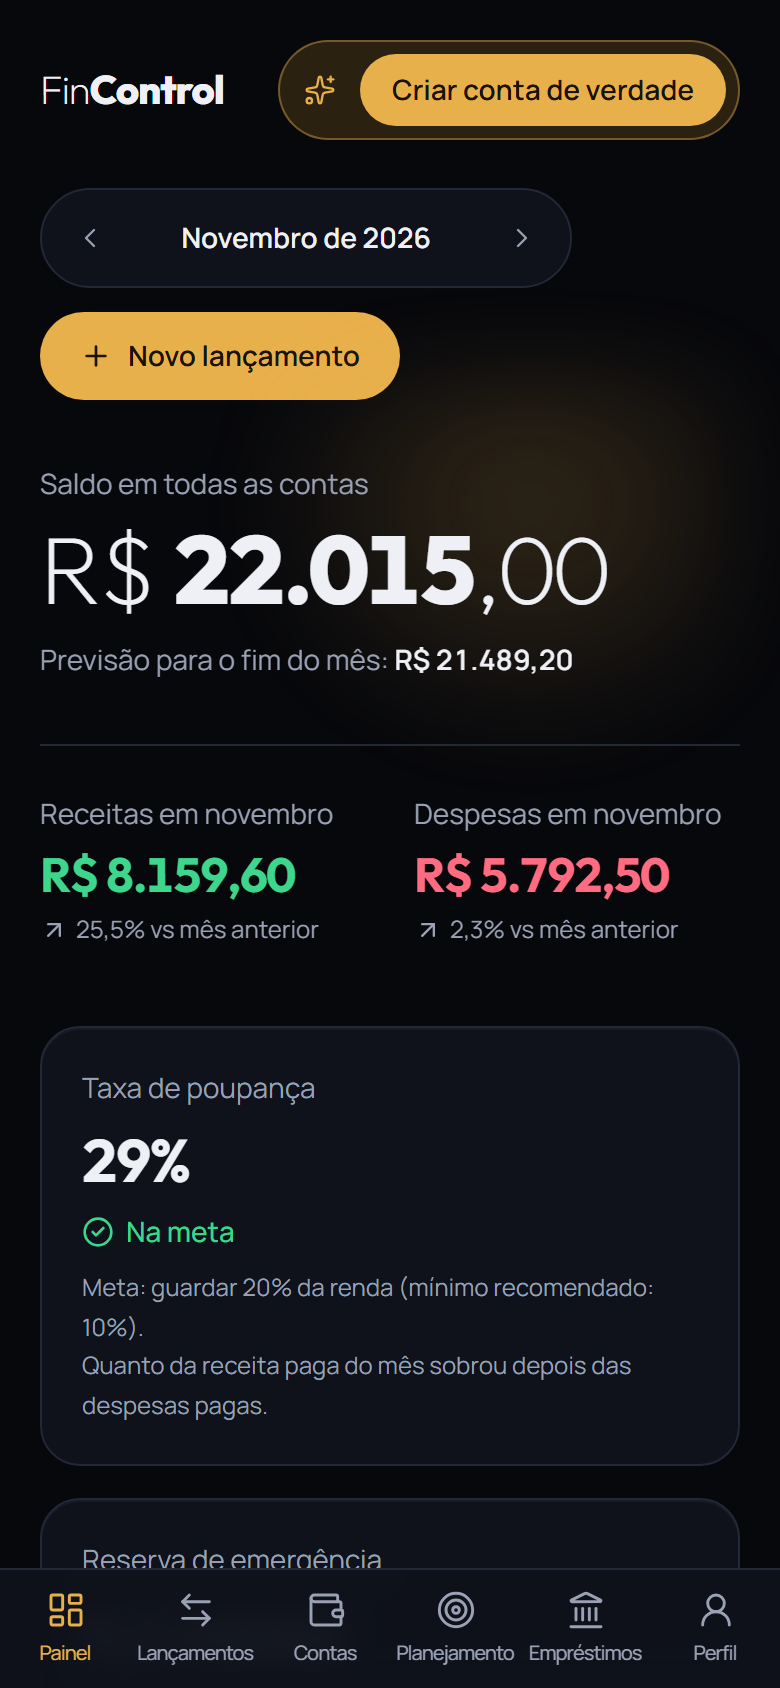
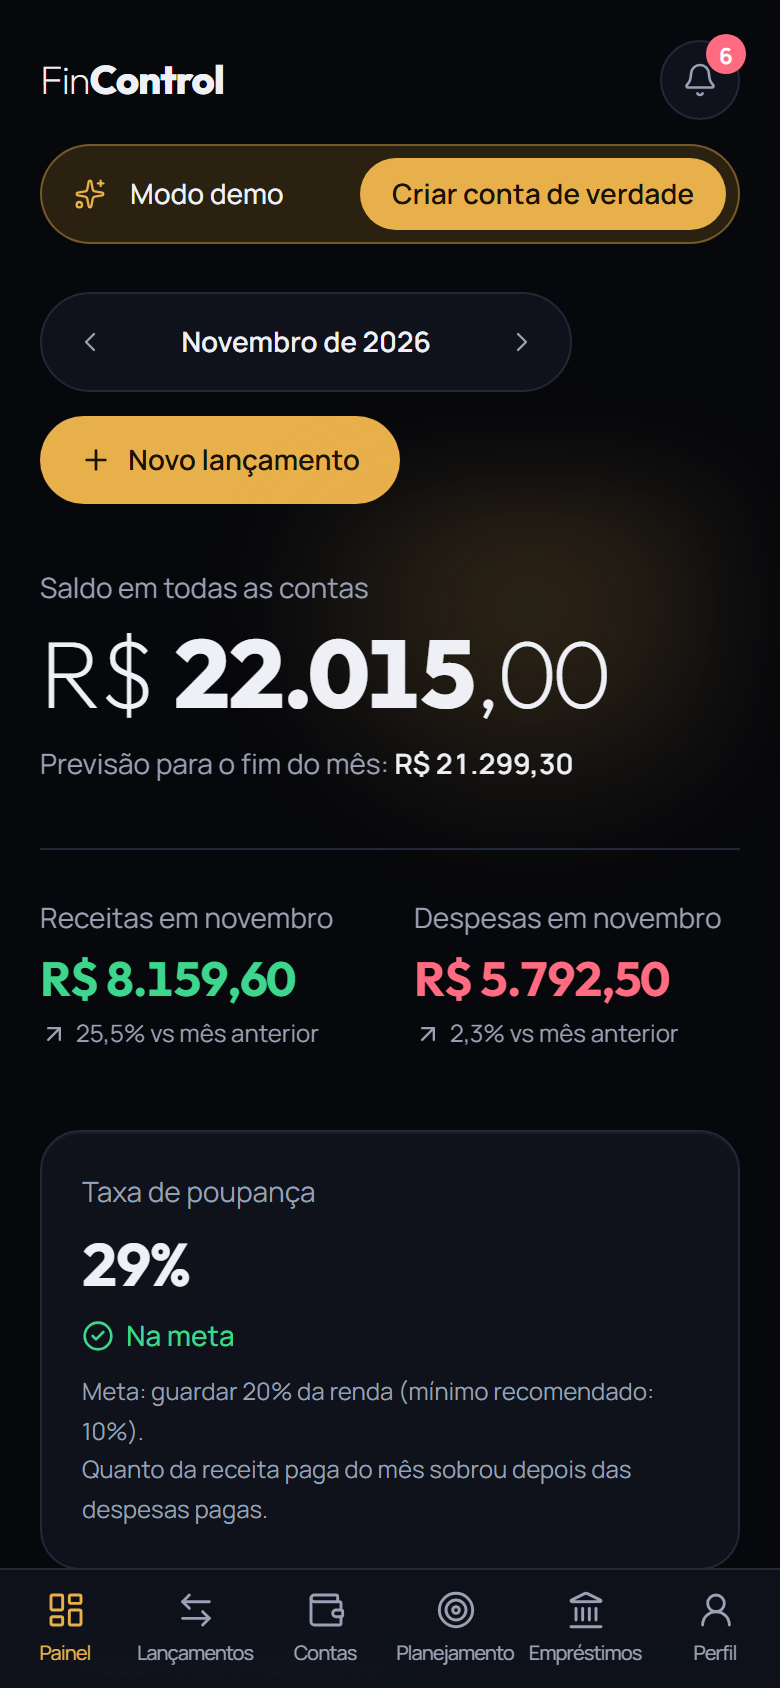
test(e2e): notificações e cabeçalho a 360 px; docs do sub-projeto 5

diff --git a/e2e/tests/mobile-e-publico.spec.ts b/e2e/tests/mobile-e-publico.spec.ts
@@ -13,7 +13,7 @@ test.describe('tela de 360 px', () => {
 
     const paths = [
       '/', '/lancamentos', '/contas', faturas!, '/emprestimos', emprestimo!, '/planejamento', '/planejamento?aba=metas',
-      '/relatorios', '/categorias', '/perfil', '/privacidade', '/termos',
+      '/relatorios', '/notificacoes', '/categorias', '/perfil', '/privacidade', '/termos',
     ];
     for (const path of paths) {
       await page.goto(path);
@@ -32,6 +32,27 @@ test.describe('tela de 360 px', () => {
         }).length,
       );
       expect(clipped, `conteúdo cortado na borda em ${path}`).toBe(0);
+      // Cabeçalho (logo, selo da demo e sino): nada transborda da própria caixa, passa da borda ou fica por baixo do sino.
+      const header = await page.evaluate(() => {
+        const width = document.documentElement.clientWidth;
+        const all = [...document.querySelectorAll('header *')] as HTMLElement[];
+        // Páginas públicas (privacidade, termos) não têm sino.
+        const bellEl = document.querySelector('header a[href="/notificacoes"]');
+        // O selo do sino fica por fora do círculo de propósito: o sino e quem só o envolve ficam fora desta conta.
+        const overflowing = all
+          .filter((el) => !bellEl || (!el.contains(bellEl) && !bellEl.contains(el)))
+          .filter((el) => el.scrollWidth > el.clientWidth + 1 && getComputedStyle(el).overflowX === 'visible')
+          .map((el) => `${el.tagName}.${el.className}`.slice(0, 80));
+        const outside = all.some((el) => el.getBoundingClientRect().right > width + 0.5);
+        const bell = bellEl?.getBoundingClientRect();
+        const underBell = all.filter((el) => {
+          if (!bellEl || !bell || bellEl.contains(el) || el.contains(bellEl)) return false;
+          const r = el.getBoundingClientRect();
+          return r.width > 0 && r.left < bell.right - 0.5 && bell.left < r.right - 0.5 && r.top < bell.bottom - 0.5 && bell.top < r.bottom - 0.5;
+        }).length;
+        return { overflowing, outside, underBell };
+      });
+      expect(header, `cabeçalho em ${path}`).toEqual({ overflowing: [], outside: false, underBell: 0 });
     }
   });
 });

diff --git a/e2e/tests/notificacoes.spec.ts b/e2e/tests/notificacoes.spec.ts
@@ -1,0 +1,34 @@
+import { expect, test } from '@playwright/test';
+import { enterDemo } from './helpers';
+
+test('demo: o sino mostra os não lidos, a ação marca como lido e "marcar todas" zera', async ({ page }) => {
+  await enterDemo(page);
+  const bell = page.getByRole('link', { name: /^Notificações, \d+ não lidas?$/ });
+  await expect(bell).toBeVisible();
+  const before = Number((await bell.getAttribute('aria-label'))!.match(/\d+/)![0]);
+  expect(before).toBeGreaterThanOrEqual(5);
+
+  await bell.click();
+  await expect(page).toHaveURL(/\/notificacoes$/);
+  const list = page.getByRole('list', { name: 'Notificações' });
+  // A conta vencida da demo vem no topo (N5).
+  await expect(list.getByRole('listitem').first()).toContainText('Conta vencida');
+  await expect(list).toContainText('Conta de luz');
+  await expect(list).toContainText('vence em 2 dias');
+  await expect(list).toContainText('Meta concluída: Notebook novo');
+
+  // Critério 4: a ação marca como lida e leva para a tela certa.
+  await list.getByRole('listitem').filter({ hasText: 'Meta concluída' }).getByRole('link', { name: 'Ver metas' }).click();
+  await expect(page).toHaveURL(/\/planejamento\?aba=metas$/);
+  await expect(page.getByRole('link', { name: `Notificações, ${before - 1} ${before - 1 === 1 ? 'não lida' : 'não lidas'}` })).toBeVisible();
+
+  await page.goto('/notificacoes');
+  await page.getByRole('button', { name: 'Marcar todas como lidas' }).click();
+  await expect(page.getByRole('link', { name: 'Notificações', exact: true })).toBeVisible();
+
+  // Critério 5: desligar "Orçamento" no Perfil tira esses avisos.
+  await page.goto('/perfil');
+  await page.getByRole('region', { name: 'Notificações' }).getByRole('checkbox', { name: /Orçamento/ }).uncheck();
+  await page.goto('/notificacoes');
+  await expect(page.getByRole('list', { name: 'Notificações' })).not.toContainText('limite');
+});

diff --git a/apps/web/src/app/app-shell.tsx b/apps/web/src/app/app-shell.tsx
@@ -19,9 +19,9 @@ function DemoBadge() {
   const { signOut } = useAuth();
   const navigate = useNavigate();
   return (
-    <div className="flex items-center gap-3 rounded-full border border-primary/40 bg-primary-soft py-1.5 pl-3 pr-1.5 sm:pl-4 text-sm">
+    <div className="flex items-center gap-3 rounded-full border border-primary/40 bg-primary-soft py-1.5 pl-4 pr-1.5 text-sm">
       <Sparkles aria-hidden className="h-4 w-4 text-primary" strokeWidth={1.75} />
-      <span className="hidden font-medium sm:inline">Modo demo</span>
+      <span className="mr-auto font-medium">Modo demo</span>
       <Button
         size="sm"
         className="h-8"
@@ -67,12 +67,17 @@ export function AppShell() {
       </aside>
 
       <div className="flex min-w-0 flex-col overflow-x-clip">
-        <header className="flex items-center justify-between gap-3 px-5 pt-5 md:px-10 md:pt-7">
+        {/* No celular, o selo da demo desce para uma segunda linha: logo, selo e sino não cabem lado a lado a 360 px. */}
+        <header className="flex flex-wrap items-center gap-3 px-5 pt-5 md:px-10 md:pt-7">
           <span className="md:hidden">
             <Logo />
           </span>
-          <div className="ml-auto flex items-center gap-3">
-            {isDemo && <DemoBadge />}
+          {isDemo && (
+            <div className="order-last w-full sm:order-none sm:ml-auto sm:w-auto">
+              <DemoBadge />
+            </div>
+          )}
+          <div className={cn('ml-auto', isDemo && 'sm:ml-0')}>
             <NotificationBell />
           </div>
         </header>

diff --git a/apps/web/src/features/profile/notification-settings.tsx b/apps/web/src/features/profile/notification-settings.tsx
@@ -1,4 +1,5 @@
 import type { BillDays, NotificationPrefs } from '@fincontrol/shared';
+import { useState } from 'react';
 import { toast } from 'sonner';
 import { Panel } from '../../components/ui/panel';
 import { Segmented } from '../../components/ui/segmented';
@@ -18,10 +19,23 @@ const DAYS: { value: `${BillDays}`; label: string }[] = [
 ];
 
 /** Preferências de notificação (sub-projeto 5, N7): o que avisar e com quanta antecedência. */
-export function NotificationSettings({ prefs }: { prefs: NotificationPrefs }) {
+export function NotificationSettings({ prefs: saved }: { prefs: NotificationPrefs }) {
   const update = useUpdateProfile();
-  const save = (next: NotificationPrefs) =>
-    update.mutate({ notificationPrefs: next }, { onError: (e) => toast.error(e.message) });
+  // Muda na hora (sem esperar o servidor) e volta ao que estava gravado se o salvamento falhar.
+  const [prefs, setPrefs] = useState(saved);
+  const save = (next: NotificationPrefs) => {
+    const previous = prefs;
+    setPrefs(next);
+    update.mutate(
+      { notificationPrefs: next },
+      {
+        onError: (e) => {
+          setPrefs(previous);
+          toast.error(e.message);
+        },
+      },
+    );
+  };
 
   return (
     <Panel role="region" aria-label="Notificações" className="grid gap-5 p-6">

diff --git a/apps/web/src/features/profile/profile-page.test.tsx b/apps/web/src/features/profile/profile-page.test.tsx
@@ -1,6 +1,7 @@
 import { screen, waitFor, within } from '@testing-library/react';
 import userEvent from '@testing-library/user-event';
 import { describe, expect, it } from 'vitest';
+import { ApiError } from '../../lib/api-client';
 import { fakeApi, fakeGateway, signedIn } from '../../test/fakes';
 import { renderApp } from '../../test/render';
 import ProfilePage from './profile-page';
@@ -50,5 +51,13 @@ describe('ProfilePage', () => {
     expect(api.patch).toHaveBeenLastCalledWith('/me', { notificationPrefs: { ...prefs, budget: false } });
     await userEvent.click(within(panel).getByRole('radio', { name: '7 dias' }));
     expect(api.patch).toHaveBeenLastCalledWith('/me', { notificationPrefs: { ...prefs, budget: false, billDays: 7 } });
+  });
+
+  it('a caixa muda na hora e volta se o salvamento falhar', async () => {
+    const api = fakeApi({ 'GET /me': profile, 'PATCH /me': () => new ApiError(500, 'Erro', 'Falhou.') });
+    renderApp(<ProfilePage />, { api });
+    const box = within(await screen.findByRole('region', { name: 'Notificações' })).getByRole('checkbox', { name: /Metas/ });
+    await userEvent.click(box);
+    await waitFor(() => expect(box).toBeChecked());
   });
 });

diff --git a/e2e/tests/screenshots.spec.ts b/e2e/tests/screenshots.spec.ts
@@ -43,6 +43,7 @@ test.describe('desktop', () => {
     await shoot(page, emprestimo!, 'emprestimo.png');
     await shoot(page, '/planejamento', 'planejamento.png');
     await shoot(page, '/relatorios', 'relatorios.png');
+    await shoot(page, '/notificacoes', 'notificacoes.png');
   });
 });
 

diff --git a/README.md b/README.md
@@ -23,6 +23,8 @@ Gestão financeira pessoal: contas, cartões de crédito, empréstimos e financi
 
 ![Relatórios: resumo do período comparado com o anterior, gastos e receitas por categoria, e downloads em PDF e CSV](docs/screenshots/relatorios.png)
 
+![Notificações: contas vencidas e a vencer, orçamento estourado ou perto do limite e metas concluídas, do mais urgente ao menos](docs/screenshots/notificacoes.png)
+
 ## O que dá para fazer
 
 - **Várias contas**: corrente, poupança, carteira e investimento, cada uma com o próprio saldo, além de transferências entre elas.
@@ -34,6 +36,7 @@ Gestão financeira pessoal: contas, cartões de crédito, empréstimos e financi
 - **Metas**: objetivos com valor e prazo, depósitos e retiradas, percentual alcançado, situação (no ritmo, atrasada, concluída) e quanto guardar por mês até o prazo. Há um atalho para a meta de reserva de emergência, com 6 meses do gasto médio.
 - **Relatórios**: por mês, ano ou últimos 12 meses, com resumo e taxa de poupança, gastos e receitas por categoria comparados com o período anterior, evolução mensal, evolução das dívidas (cartões com parcelas futuras e saldo devedor dos empréstimos), maiores despesas e o saldo de cada conta no fim do período.
 - **Exportação**: o relatório em PDF (A4, gerado na API) e os lançamentos em CSV no formato do Excel brasileiro (`;`, vírgula decimal, acentos certos e proteção contra fórmulas).
+- **Notificações**: um sino em todas as telas com os avisos não lidos: contas vencidas e a vencer, faturas fechadas ou vencidas, categorias perto do limite ou estouradas e metas concluídas. Os mais urgentes vêm primeiro, cada aviso leva à tela que resolve o assunto e some sozinho quando ele se resolve. No Perfil, a pessoa escolhe o que receber e com quantos dias de antecedência.
 - **Lançamentos**: receitas e despesas, fixas ou variáveis, pagas ou pendentes, com vencimento e categoria.
 - **Recorrências**: o lançamento se repete (toda semana, todo mês ou todo ano) e cada mês ganha a sua ocorrência, que pode ser paga ou editada. Dá para editar “só esta” ou “esta e as próximas”, sem mexer no que já foi pago.
 - **Histórico com filtros combinados**: período, conta, categoria, tipo, situação e busca, com paginação.
@@ -67,11 +70,12 @@ flowchart LR
 - **Recorrências materializadas sob demanda** e de forma idempotente. Não existe job pré-gerando ocorrências, e uma ocorrência persistida pode ser paga e editada.
 - **Monorepo com npm workspaces.** Os schemas Zod de `packages/shared` validam os dados nos dois lados.
 
-As decisões, com as alternativas descartadas e os motivos, estão nas specs do [sub-projeto 1](docs/superpowers/specs/2026-11-11-fincontrol-fundacao-fluxo-caixa-design.md) , do [sub-projeto 2](docs/superpowers/specs/2026-11-12-fincontrol-sp2-credito-design.md), do [sub-projeto 3](docs/superpowers/specs/2026-11-16-fincontrol-sp3-planejamento-metas-design.md) e do [sub-projeto 4](docs/superpowers/specs/2026-11-17-fincontrol-sp4-relatorios-exportacao-design.md).
+As decisões, com as alternativas descartadas e os motivos, estão nas specs do [sub-projeto 1](docs/superpowers/specs/2026-11-11-fincontrol-fundacao-fluxo-caixa-design.md) , do [sub-projeto 2](docs/superpowers/specs/2026-11-12-fincontrol-sp2-credito-design.md), do [sub-projeto 3](docs/superpowers/specs/2026-11-16-fincontrol-sp3-planejamento-metas-design.md), do [sub-projeto 4](docs/superpowers/specs/2026-11-17-fincontrol-sp4-relatorios-exportacao-design.md) e do [sub-projeto 5](docs/superpowers/specs/2026-11-17-fincontrol-sp5-notificacoes-design.md).
 
 - **O cartão é uma conta** do tipo `credit_card`. A compra é uma despesa nessa conta, com o mês da fatura gravado, e o pagamento é uma transferência. Assim, cartão, saldo e painel usam o mesmo livro-caixa.
 - **As contas do empréstimo ficam em `packages/shared`** (tabela Price): a API calcula o detalhe, e o formulário mostra a taxa real antes de salvar com as mesmas funções.
 - **O PDF é gerado na API com `pdf-lib`**, JavaScript puro com as fontes padrão embutidas, sem ler arquivos do disco na função da Vercel. O download usa `fetch` com o token, para ele nunca ir parar na URL.
+- **Notificações calculadas na hora:** cada aviso sai dos dados atuais, e o banco guarda só a memória dele (chave estável, quando apareceu e quando foi lido). Assim, um aviso de conta já paga nunca fica para trás.
 - **Taxas do Banco Central** vêm da API Olinda (`taxaJuros` v2). Um cron semanal guarda o período mais recente de cada modalidade. Se a API falhar, os dados anteriores ficam. Os testes usam respostas gravadas, sem rede.
 
 | Pasta | O que tem |
@@ -86,10 +90,10 @@ As decisões, com as alternativas descartadas e os motivos, estão nas specs do 
 
 | Camada | Quantidade | Como roda |
 |---|---|---|
-| `packages/shared` | 120 | Unitários (Vitest) |
-| `apps/api` | 236 | Integração contra **Postgres real**: rotas HTTP, regras de saldo, recorrência, cartão e fatura, empréstimos, relatórios, CSV e PDF, sincronização com o Banco Central e isolamento entre usuários |
-| `apps/web` | 149 | Componentes e fluxos (Testing Library), com o provedor de identidade simulado |
-| `e2e` | 12 | Chromium contra a pilha inteira |
+| `packages/shared` | 128 | Unitários (Vitest) |
+| `apps/api` | 245 | Integração contra **Postgres real**: rotas HTTP, regras de saldo, recorrência, cartão e fatura, empréstimos, relatórios, CSV e PDF, sincronização com o Banco Central e isolamento entre usuários |
+| `apps/web` | 158 | Componentes e fluxos (Testing Library), com o provedor de identidade simulado |
+| `e2e` | 13 | Chromium contra a pilha inteira |
 
 O E2E roda a **web buildada como em produção**, a **API real** e o **Postgres real**. A única peça simulada é o provedor de identidade: um servidor Auth mínimo ([`e2e/fake-auth.ts`](e2e/fake-auth.ts)) que fala o mesmo protocolo do Supabase e assina JWTs ES256 de verdade. Assim, a API valida os tokens pelo mesmo caminho de produção (JWKS, issuer e audience), sem segredos no CI e sem sujar o projeto real. Os cenários seguem os critérios de aceite da spec:
 
@@ -100,8 +104,9 @@ O E2E roda a **web buildada como em produção**, a **API real** e o **Postgres 
 - limite por categoria avisando "Perto do limite", e meta acompanhando os depósitos;
 - cadastro de empréstimo com a taxa real na prévia, as parcelas em Lançamentos e a exclusão apagando as pendentes;
 - relatórios da demo, com o download do CSV e do PDF;
+- notificações da demo: a ação marca como lido, "marcar todas" zera o contador e as preferências do Perfil valem na hora;
 - “Excluir minha conta” apagando também o usuário no Auth;
-- nenhuma rolagem horizontal nem conteúdo cortado a 360 px, em todas as páginas;
+- nenhuma rolagem horizontal nem conteúdo cortado a 360 px, em todas as páginas, inclusive no cabeçalho;
 - política de privacidade e termos de uso públicos;
 - rota protegida sem sessão.
 
@@ -143,4 +148,4 @@ Dois projetos na Vercel a partir deste monorepo: `fincontrol-web` (raiz `apps/we
 
 ## Roadmap
 
-São 7 sub-projetos. O 1 (fundação e fluxo de caixa), o 2 (crédito: cartões, empréstimos e financiamentos), o 3 (planejamento e metas) e o 4 (relatórios e exportação) estão prontos. Depois vêm notificações e um assistente financeiro com IA. Cada um sai com spec, plano, testes e deploy.
+São 7 sub-projetos. O 1 (fundação e fluxo de caixa), o 2 (crédito: cartões, empréstimos e financiamentos), o 3 (planejamento e metas), o 4 (relatórios e exportação) e a central de notificações do 5 estão prontos. Depois vêm os avisos no celular (Web Push) e um assistente financeiro com IA. Cada um sai com spec, plano, testes e deploy.

diff --git a/docs/HANDOFF.md b/docs/HANDOFF.md
@@ -1,6 +1,22 @@
 # HANDOFF — FinControl
 
-_Atualizado em 2026-11-17 (sub-projeto 4)._
+_Atualizado em 2026-11-17 (sub-projeto 5, Parte A)._
+
+## Sub-projeto 5, Parte A: central de notificações (2026-11-17, branch feat/notificacoes)
+
+- **Spec:** `docs/superpowers/specs/2026-11-17-fincontrol-sp5-notificacoes-design.md`, com as decisões N1–N11 tomadas pelo agente. **Plano:** `docs/superpowers/plans/2026-11-17-fincontrol-sp5-notificacoes.md`.
+- **Migration:** `notificacoes` (tabela `notifications` e a coluna `profiles.notification_prefs`). **Antes do deploy da API, aplicar no Supabase** (`npx prisma migrate deploy` pelo pooler na porta 5432).
+- **Entregue:**
+  - o sino com os não lidos no topo de todas as telas e a página `/notificacoes`, com os avisos do mais urgente ao menos (contas vencidas e a vencer, faturas, orçamento e metas concluídas);
+  - os avisos são calculados na hora, e o banco guarda só a memória (chave, quando apareceu e quando foi lido). Um aviso some sozinho quando o assunto se resolve, e a mudança de faixa ou de vencimento muda a chave, então ele volta como não lido;
+  - as preferências no Perfil (tipos e antecedência de 1, 3 ou 7 dias), que mudam na hora e voltam ao estado anterior se o salvamento falhar;
+  - o cron diário (`cleanup-demo`) também apaga a memória de avisos inativos há mais de 60 dias;
+  - na demo, uma conta vencendo em 2 dias e a meta concluída "Notebook novo".
+- **Cabeçalho do celular:** com o sino, o selo da demo desce para uma segunda linha. O teste de 360 px agora mede o cabeçalho (transbordo e sobreposição com o sino), e foi conferido que ele falha sem a correção.
+- **Testes:** 128 em shared, 245 na API e 158 na web, além de 13 E2E (novo: `e2e/tests/notificacoes.spec.ts`).
+- **Pendência do sub-projeto 4 (aceita, não corrigida):** se a 1ª parcela de uma compra feita nos dias 29 a 31 for excluída, a data da compra reconstruída para a dívida do cartão pode ficar 1 ou 2 dias antes. O mês fica certo, então relatório e painel não mudam.
+- **Parte B (próxima):** avisos no celular e no navegador (Web Push). Precisa de chaves VAPID nas variáveis da Vercel e de um envio diário.
+
 
 ## Sub-projeto 4: relatórios e exportação (2026-11-17, branch feat/relatorios)
 
